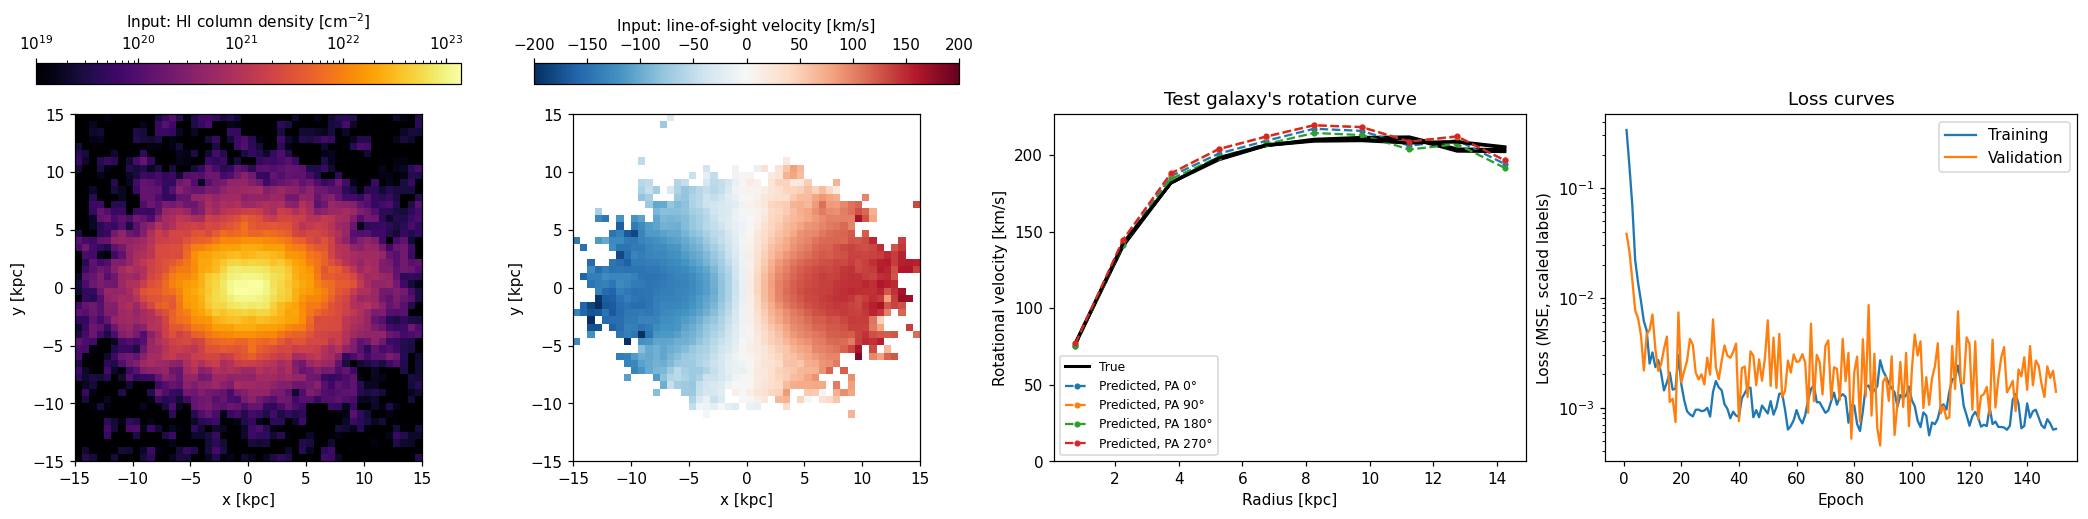
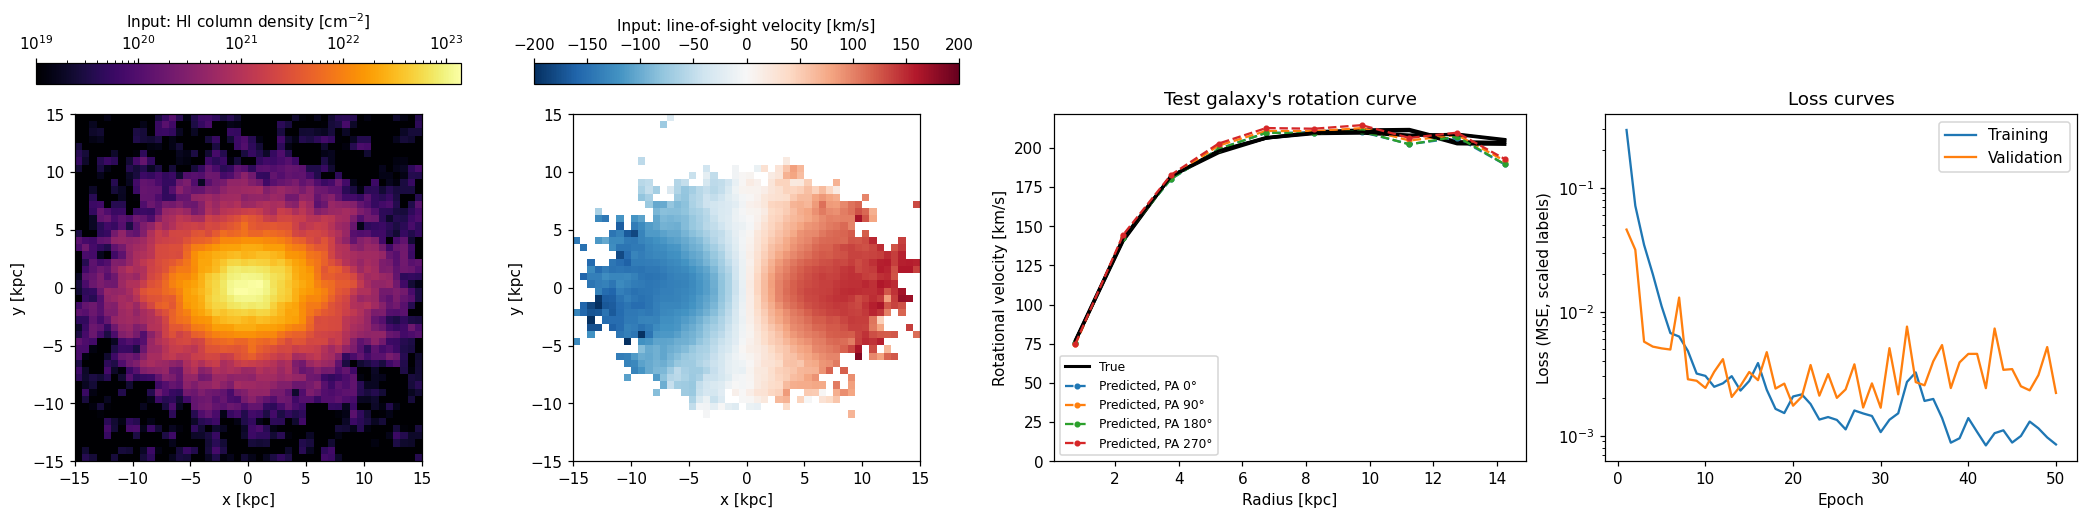
Change demo training to 50 epochs

diff --git a/examples/demo.py b/examples/demo.py
@@ -1,6 +1,6 @@
 """Demo: train a small CoNNGaFit network on synthetic VOF observations, then predict a galaxy it hasn't seen.
 
-Needs no simulation data and runs in a few minutes on a laptop CPU. From the repository root:
+Needs no simulation data and runs in about a minute on a laptop CPU. From the repository root:
 
     python examples/demo.py                 # writes examples/demo_output/demo.png
     python examples/demo.py --epochs 10 --output DIR
@@ -45,7 +45,7 @@ SPLITS = {
     "testing": ["vflat220"],
 }
 SNAPSHOT = 600
-# configs/hyperparams_rc.toml, made small enough to train in a few minutes on a CPU
+# configs/hyperparams_rc.toml, made small enough to train in about a minute on a CPU
 HYPERPARAM_OVERRIDES = {
     "n_filt0": 4,
     "k0": 5,
@@ -55,7 +55,7 @@ HYPERPARAM_OVERRIDES = {
     "learning_rate": 1e-3,
     "label_scaling": "one-sided",
 }
-DEFAULT_EPOCHS = 150
+DEFAULT_EPOCHS = 50
 DETECTION = 1e20  # cm^-2: about 5 sigma for VOF's demo noise (3e18 cm^-2 in each of 48 channels)
 
 

diff --git a/README.md b/README.md
@@ -30,7 +30,7 @@ To train on a GPU, install a CUDA-enabled build of PyTorch first (see [pytorch.o
 python examples/demo.py
 ```
 
-Trains a small network on VOF observations of six synthetic disk galaxies, each rotating at a different speed ([`examples/demo_data`](examples/demo_data), ~10 MB), then predicts the rotation curve of a galaxy it hasn't seen. It needs no simulation data, takes a few minutes on a laptop CPU, and writes `examples/demo_output/demo.png`:
+Trains a small network on VOF observations of six synthetic disk galaxies, each rotating at a different speed ([`examples/demo_data`](examples/demo_data), ~10 MB), then predicts the rotation curve of a galaxy it hasn't seen. It needs no simulation data, takes about a minute on a laptop CPU, and writes `examples/demo_output/demo.png`:
 
 ![Demo: the test galaxy's HI column density and line-of-sight velocity, its true and predicted rotation curves at four position angles, and the training and validation loss curves](examples/demo.png)
 
